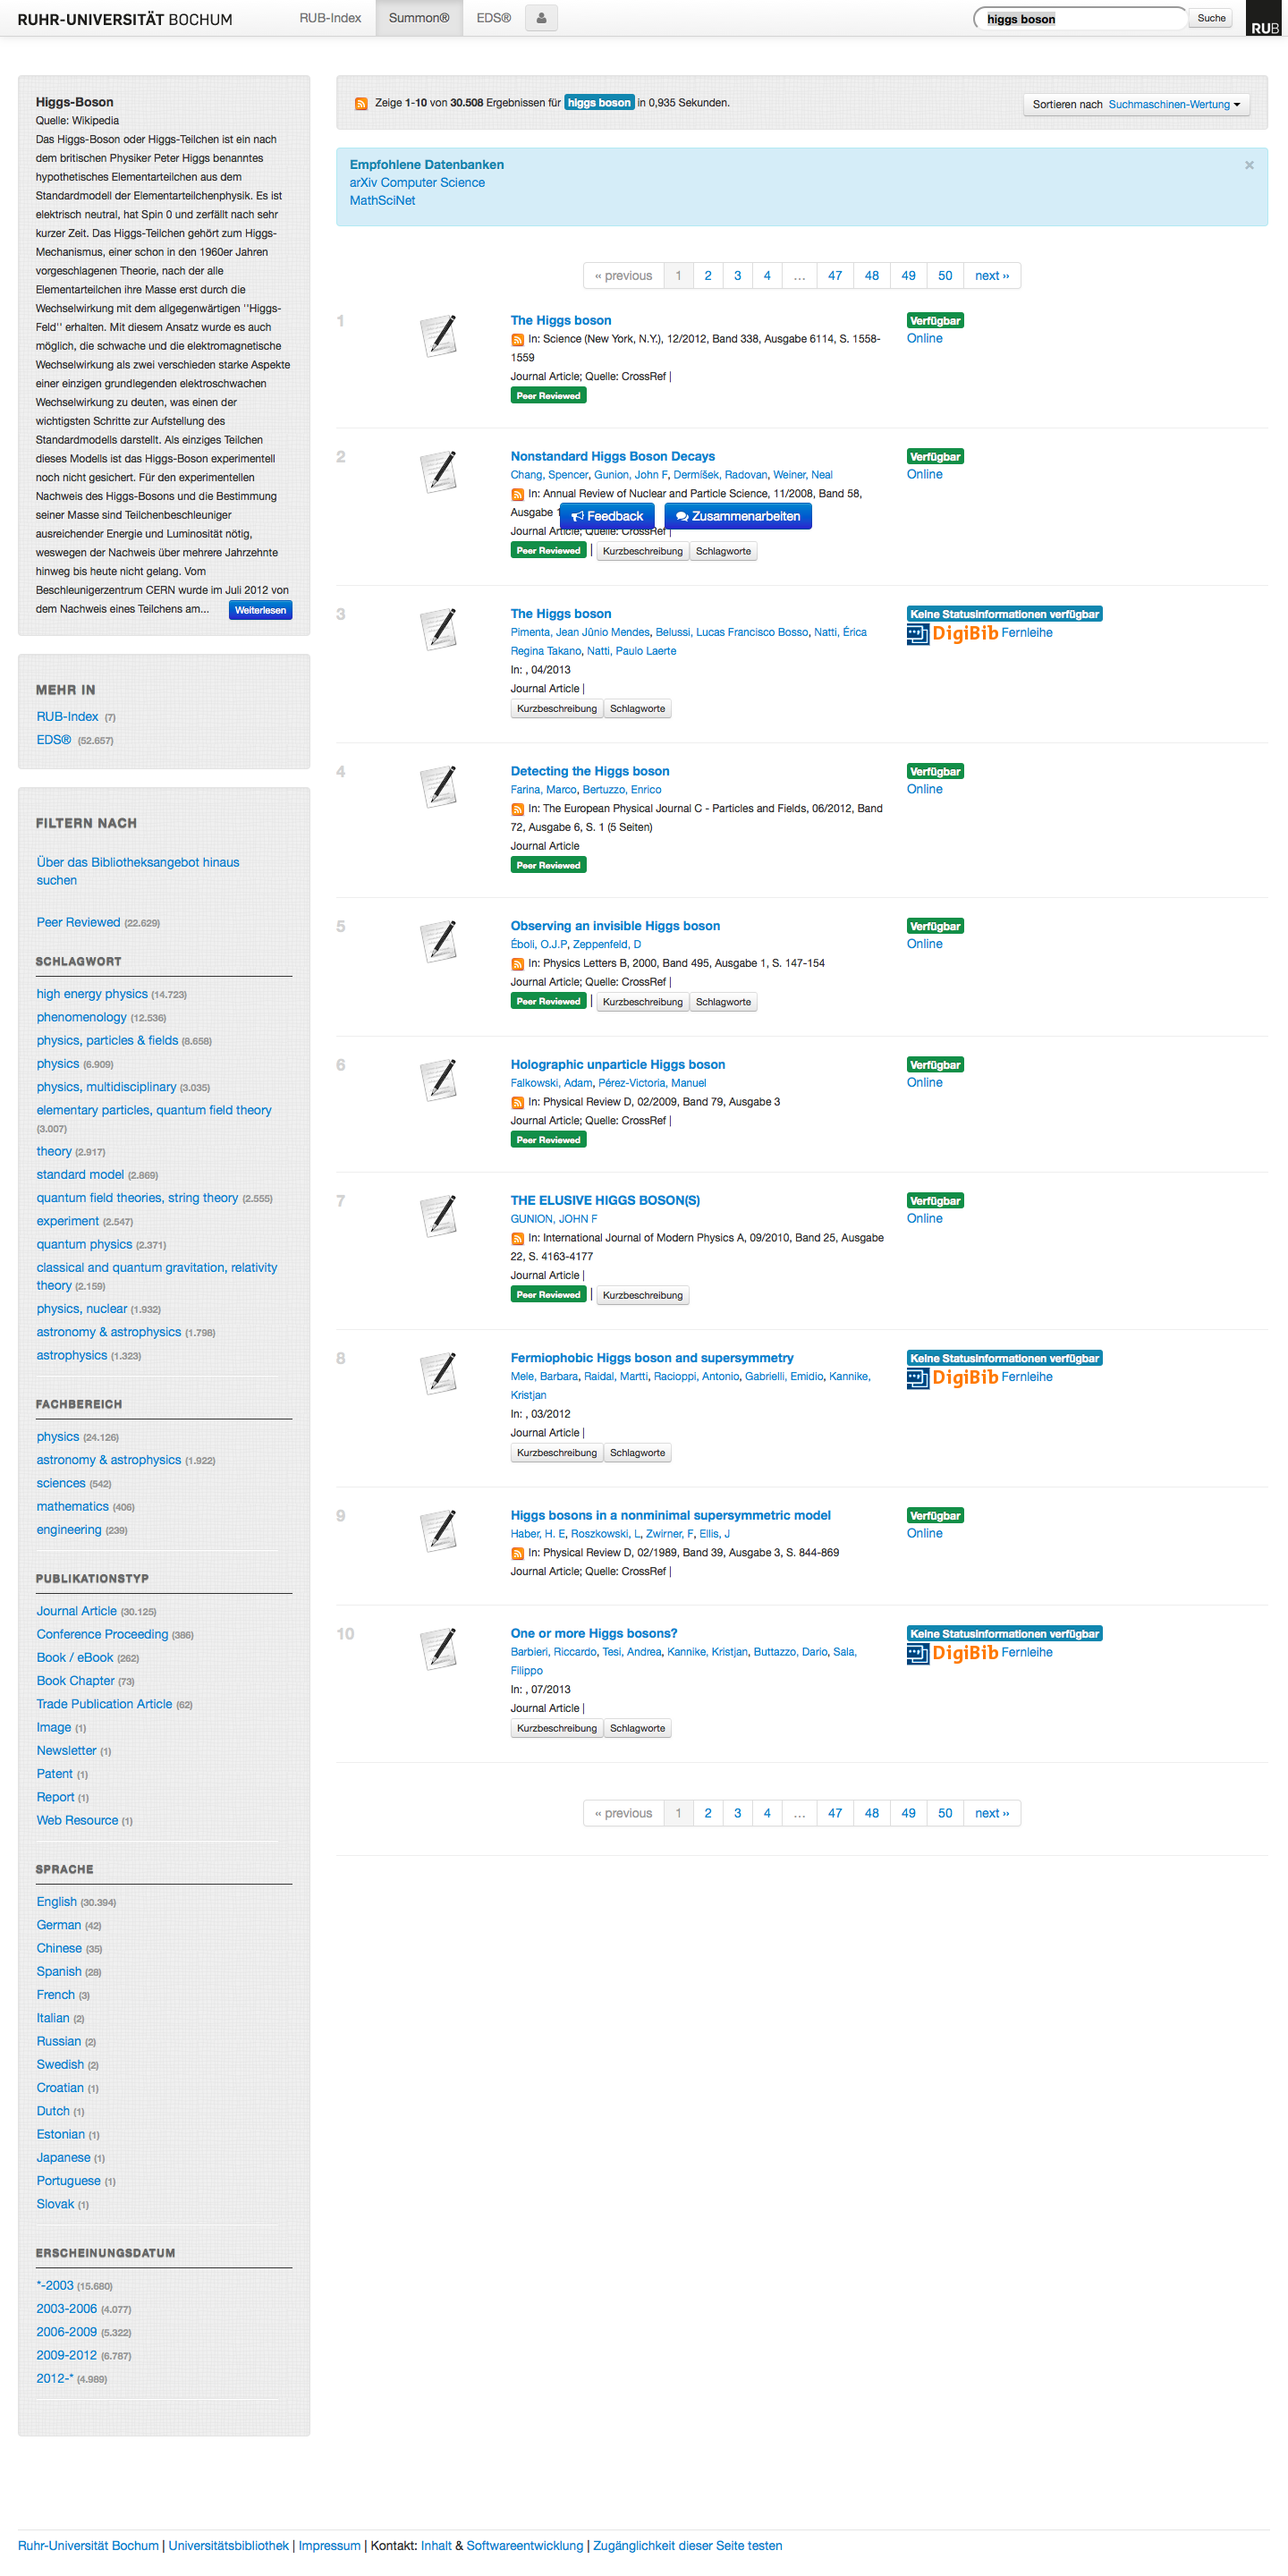
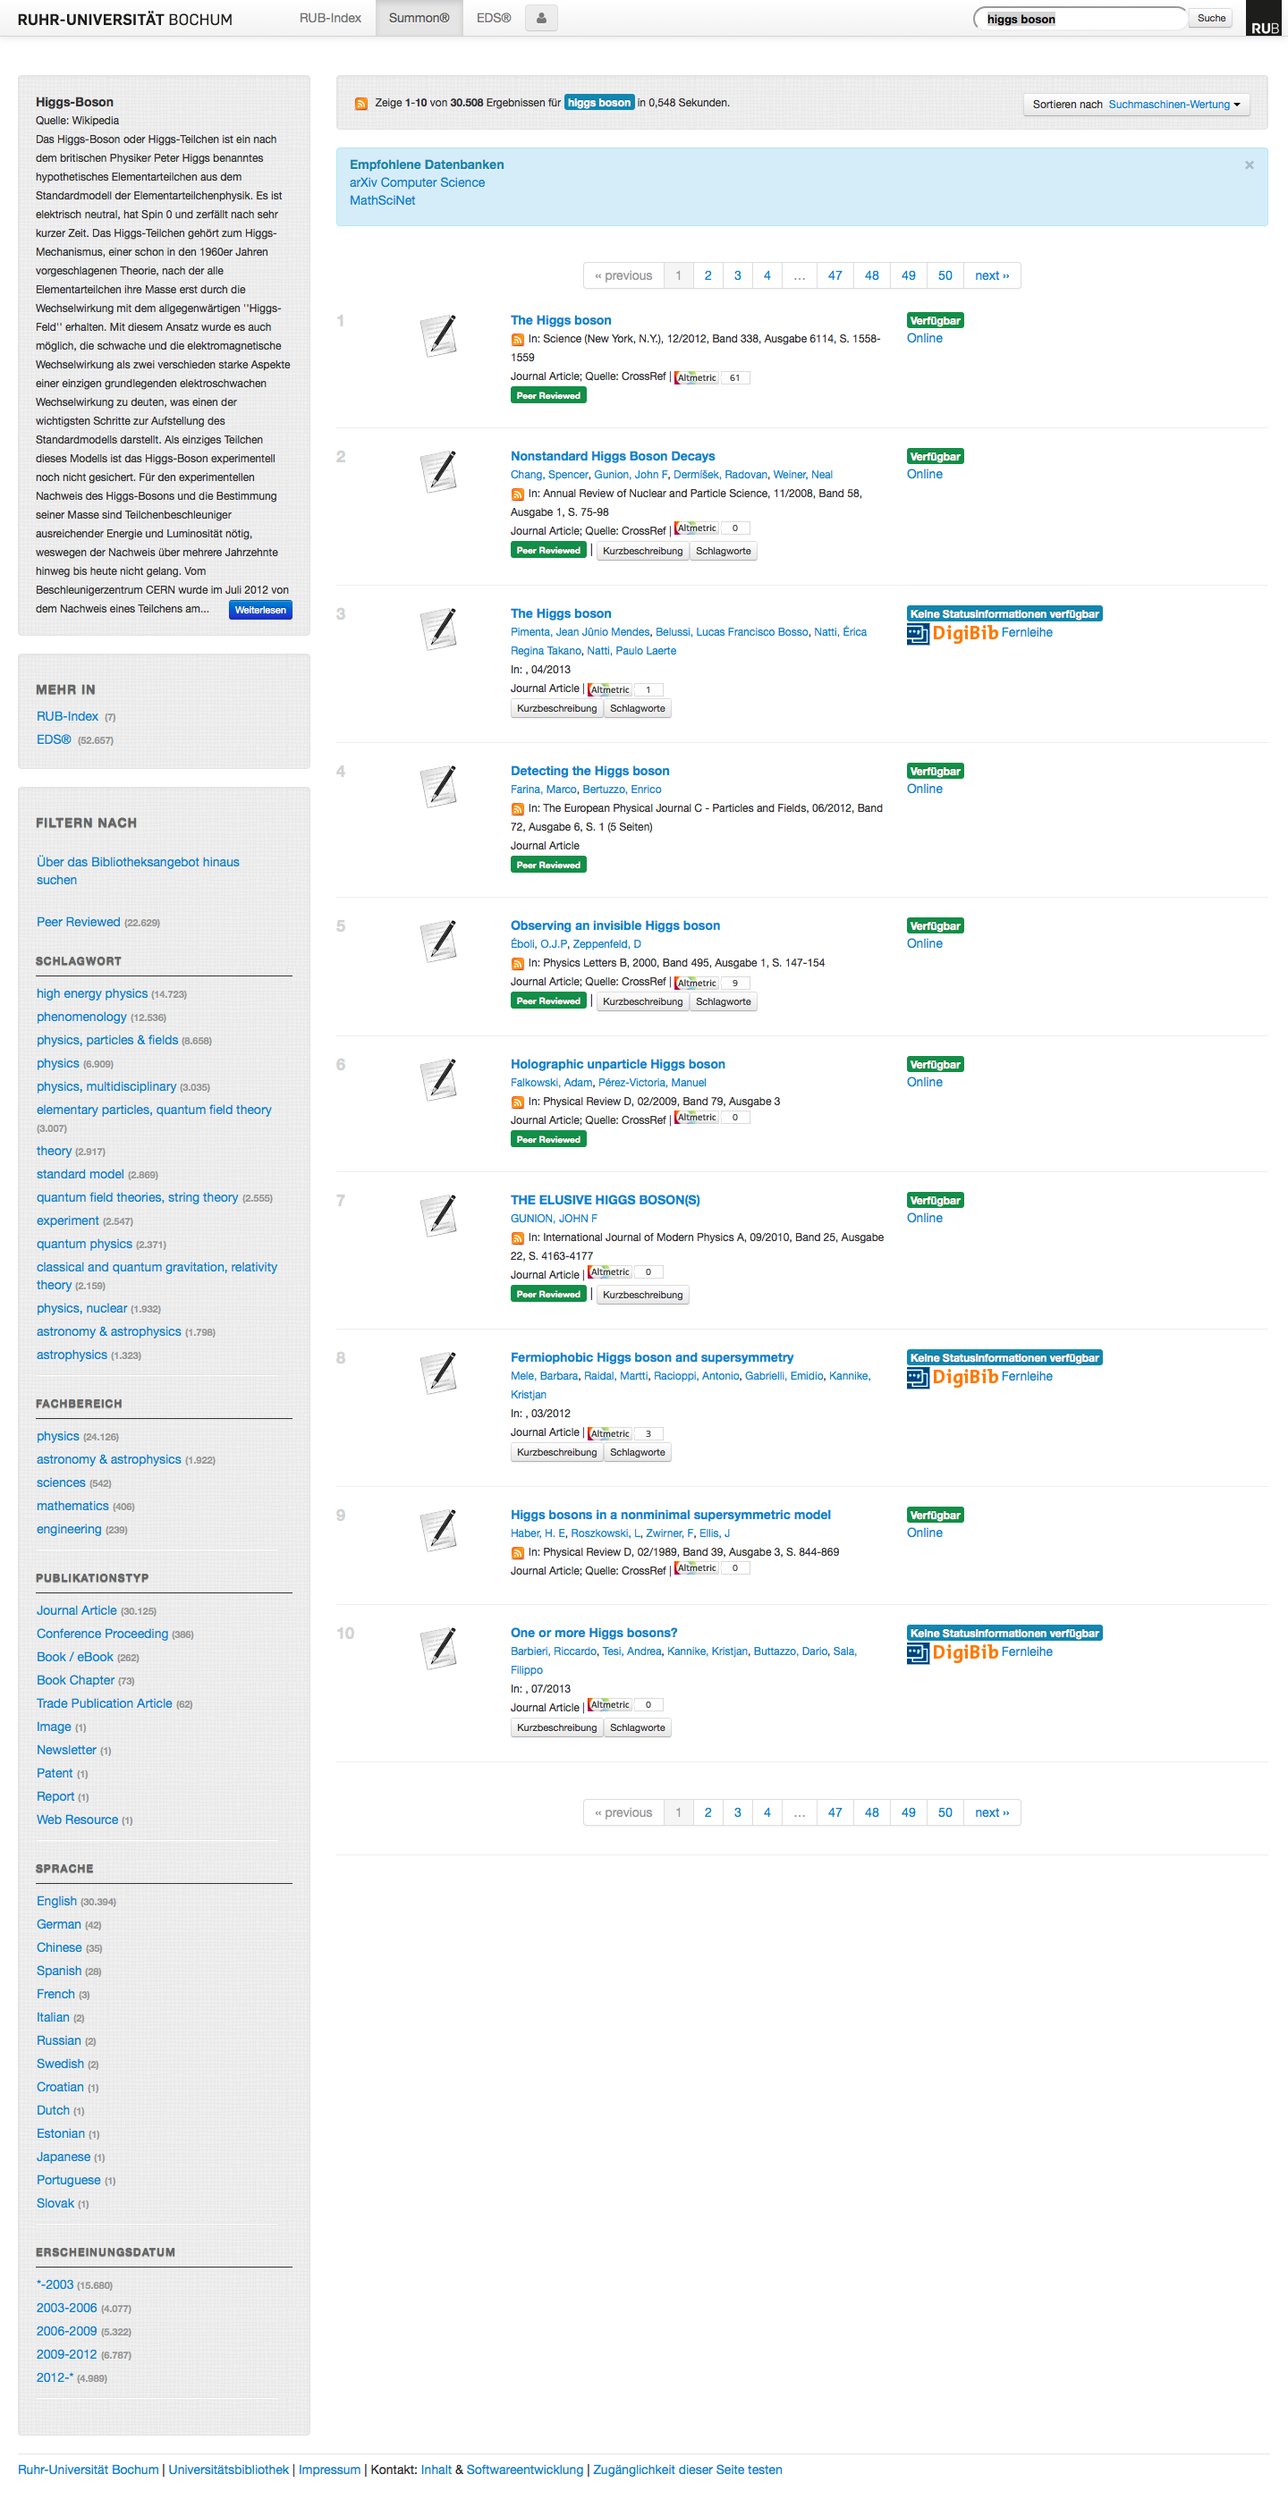
Altmetric and updated screenshot

diff --git a/artikel.md b/artikel.md
@@ -51,9 +51,13 @@ das Layout als auch die Funktionalitäten) angepasst werden kann, und der Einbin
 letztere Möglichkeit gewaählt. Kernstück der Architektur ist ein Django Webapplikationsserver, der sowohl die Discovery
 Dienste als auch den lokalen Index anspricht. Für das Oberfächenlayout kommt das CSS-Framework _Bootstrap_[^1] in einer
 nur rudimentär an das Corporate Design der Ruhr-Universität Bochum angepassten Form zum Einsatz. Darüber hinaus stellt
-ein weiterer Django-Server eine Implementierung der _Document Availability API_ (DAIA)[^2] zur Verfügung, die sowohl
-Verfügbarkeitsinformationen aus dem Lokalsystem als auch aus dem _Journals Online & Print_ (JOP)-Dienst der DNB als auch
-dem 360 Link-Resolver von ProQuest hinter dieser plattformneutralen Programmierschnittstelle kapselt.  
+ein weiterer Django-Server eine Implementierung der _Document Availability Information API_ (DAIA)[^2] zur Verfügung,
+die sowohl Verfügbarkeitsinformationen aus dem Lokalsystem als auch aus dem _Journals Online & Print_ (JOP)-Dienst der
+DNB als auch dem 360 Link-Resolver von ProQuest hinter dieser plattformneutralen Programmierschnittstelle kapselt.
+Damit soll den BenutzerInnen sofort die Möglichkeit gegeben werden, anhand der Verfügbarkeit über die Relevanz eines
+Treffers zu entscheiden, ob der Titel relevant ist. Eine weitere Entscheidungshilfe über die Relevanz des Treffers wird
+über die Integration des Dienstes _Altmetric_[^3] zu geben versucht, der Metriken über die Verwendung eines Artikels im
+Web aggregiert.
 Ein weiteres Desiderat dieses Tests sah vor, dass die Ergebnisse aus den Suchen in den Discover-Diensten untereinander aber
 auch zu unserem OPAC vergleichbar sein sollten. Daher haben wir die Trefferlisten so modelliert, dass eine Anfrage in
 eines der drei Systeme die Trefferanzahl der jeweils anderen beiden sowie einen Link mit der Suchanfrage in den
@@ -67,6 +71,7 @@ Navigatoren der drei Systeme nicht aufeinander abbildbar waren.
 ## Benutzererfahrungen
 
 ## Fazit
-[^1]: http://getbootstrap.com/2.3.2/ "Zuletzt gesehen 2014-07-15"
-[^2]: http://gbv.github.io/daiaspec/daia.html §Zuletzt gesehen 2014-07-15"
-[1]: http://journal.code4lib.org/articles/7738 "Zuletzt gesehen 2014-07-07"
+[^1]: http://getbootstrap.com/2.3.2/ "Twitter: Bootstrap. [Zugriff: 14. Juli 2014]."
+[^2]: http://gbv.github.io/daiaspec/daia.html "Voss, Jacob; Reh, Uwe: Document Availability Information API (DAIA). [Zugriff: 14. Juli 2014]."
+[^3]: https://api.altmetric.com/ 
+[^99]: http://journal.code4lib.org/articles/7738 "Zuletzt gesehen 2014-07-07"
